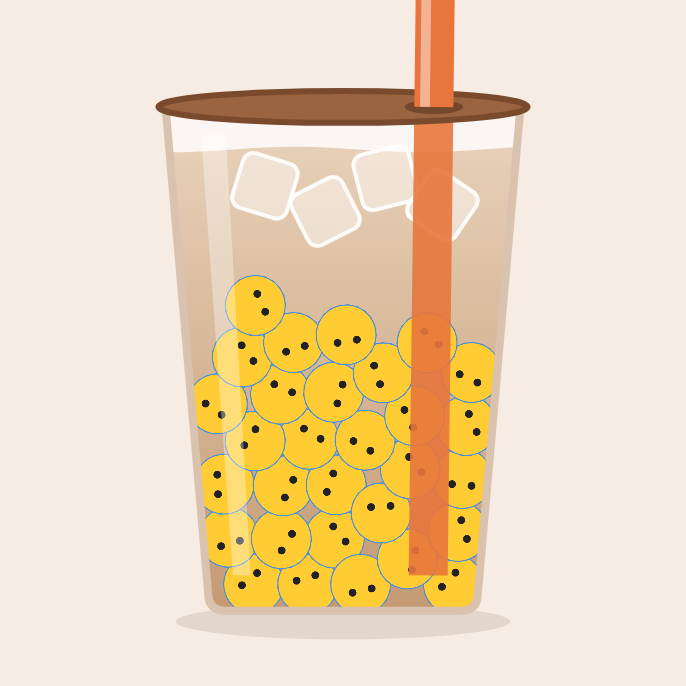
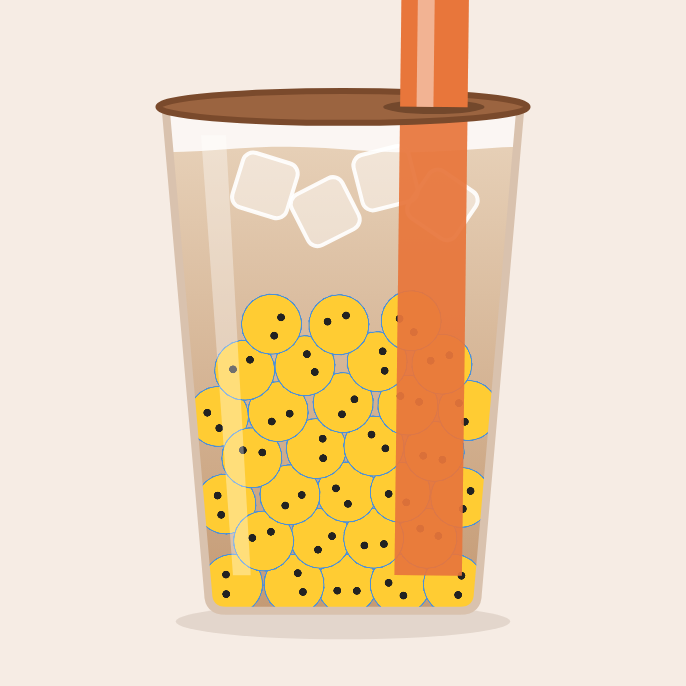
Tapioca maker: full-size pearls with physics inside a wider straw
Claude-Session: https://claude.ai/code/session_019WGMtRLvMa7SP7LbuzZCPG

Changed region(s): [[0.2755, 0.0, 0.7347, 0.8878]]

diff --git a/games/tapioca-maker/index.html b/games/tapioca-maker/index.html
@@ -275,6 +275,38 @@
     ];
   };
   const SUCK_R = 0.55, SUCK_F = 22;
+  // pearls inside the straw: 1D along the tube (d = distance from the tip, upward)
+  function stepStraw(dt, ax, ay) {
+    if (!sucked.length) return;
+    const SG = strawGeom(), G = 4.2;
+    // gravity and shake projected on the tube axis; suction pulls up while held
+    const along = (-ax) * SG.ux + (G - ay) * SG.uy;
+    for (const q of sucked) {
+      q.v += (along + (strawDrag ? 9 : 0)) * dt;
+      q.v *= Math.pow(0.4, dt);          // drag from the drink in the tube
+      q.d += q.v * dt; q.a += q.v * dt / R * 0.5;
+    }
+    // pearls can't pass each other in the tube
+    sucked.sort((a, b) => a.d - b.d);
+    for (let it = 0; it < 3; it++) {
+      for (let i = 0; i + 1 < sucked.length; i++) {
+        const a = sucked[i], b = sucked[i + 1], gap = b.d - a.d - R * 2;
+        if (gap < 0) {
+          a.d += gap / 2; b.d -= gap / 2;
+          if (a.v > b.v) { const m = (a.v + b.v) / 2; a.v = m; b.v = m; }
+        }
+      }
+    }
+    let changed = false;
+    for (const q of sucked) {
+      if (q.d < -R * 0.5) {
+        // slid out of the tip: back into the cup
+        pearls.push({ x: straw.tx, y: straw.ty + R * 0.5, vx: SG.ux * q.v, vy: SG.uy * q.v, a: q.a, va: 0, landed: true });
+        q.gone = true; changed = true;
+      } else if (q.d > STRAW_LEN + R) { q.gone = true; changed = true; }
+    }
+    if (changed) { sucked = sucked.filter(q => !q.gone); updateCount(); }
+  }
   function step(dt, ax, ay) {
     const sucking = strawDrag && liquid > 0.3;
     const G = 4.2, ws = walls();
@@ -391,6 +423,9 @@
     g.beginPath(); g.moveTo(SG.tx, SG.ty); g.lineTo(SG.hx, 0); g.stroke();
     g.globalAlpha = 1;
     drawSucked(g, opt, 1);
+    g.strokeStyle = opt.straw; g.globalAlpha = 0.3;
+    g.beginPath(); g.moveTo(SG.tx, SG.ty); g.lineTo(SG.hx, 0); g.stroke();
+    g.globalAlpha = 1;
     g.restore();
     // cup outline + shine (under the lid so the lid stays clean)
     cupPath(g); g.strokeStyle = '#d9c2ae'; g.lineWidth = 4 * lw; g.stroke();
@@ -410,13 +445,16 @@
     g.beginPath(); g.moveTo(SG.hx, 0); g.lineTo(SG.ex, SG.ey); g.stroke();
     // pearls travelling up the straw
     drawSucked(g, opt, 0);
+    g.strokeStyle = opt.straw; g.lineWidth = SW; g.globalAlpha = 0.3;
+    g.beginPath(); g.moveTo(SG.hx, 0); g.lineTo(SG.ex, SG.ey); g.stroke();
+    g.globalAlpha = 1;
     g.strokeStyle = 'rgba(255,255,255,.45)'; g.lineWidth = SW * 0.25;
     g.beginPath(); g.moveTo(SG.hx - 0.025, 0); g.lineTo(SG.ex - 0.025, SG.ey); g.stroke();
     g.restore();
   }
   // straw: a rigid tube from its tip (inside the cup) through a hole in the film
-  const SW = 0.11, STRAW_LEN = 1.66, HOLE_Y = 0;
-  let straw = { tx: 0.24, ty: CUP.h - 0.1 }, sucked = [], suckT = 0;
+  const SW = 0.19, STRAW_LEN = 1.66, HOLE_Y = 0;
+  let straw = { tx: 0.24, ty: CUP.h - 0.1 }, sucked = [];
   function strawGeom() {
     // hole slides with the tip so the straw keeps a natural slant
     const hx = Math.max(-0.36, Math.min(0.36, straw.tx * 0.4 + 0.16));
@@ -426,10 +464,10 @@
   // part 1 = inside the cup (y > 0), part 0 = above the film
   function drawSucked(g, opt, part) {
     if (!opt.sprite || !opt.sucked) return;
-    const SG = strawGeom(), sp = opt.sprite, k = SW * 0.95 / Math.max(sp.width, sp.height);
+    const SG = strawGeom(), sp = opt.sprite, k = (R * 2.3) / Math.max(sp.width, sp.height);  // same size as in the cup
     for (const q of opt.sucked) {
       const x = SG.tx + SG.ux * q.d, y = SG.ty + SG.uy * q.d;
-      if ((y > 0) !== (part === 1) || q.d > STRAW_LEN - 0.03) continue;
+      if ((y > 0) !== (part === 1)) continue;
       g.save(); g.translate(x, y); g.rotate(q.a);
       g.drawImage(sp, -sp.width * k / 2, -sp.height * k / 2, sp.width * k, sp.height * k);
       g.restore();
@@ -493,25 +531,16 @@
     const dt = Math.min(0.033, (now - lastT) / 1000); lastT = now; time += dt;
     if (mode === 'drink') {
       // holding the straw sucks up a pearl touching its tip
-      suckT -= dt;
-      // a pearl pulled right onto the tip enters the straw (one at a time: the straw is narrow)
-      if (strawDrag && suckT <= 0 && liquid > 0.3) {
+      // a pearl pulled right onto the tip enters the straw when there is room at the bottom
+      if (strawDrag && liquid > 0.3 && !sucked.some(q => q.d < R * 2.1)) {
         const SG = strawGeom();
         const i = pearls.findIndex(p => Math.hypot(p.x - straw.tx, p.y - straw.ty) < R * 0.9);
         if (i >= 0) {
           const p = pearls[i];
-          sucked.push({ d: 0, v: Math.max(0.6, p.vx * SG.ux + p.vy * SG.uy), a: p.a });
-          pearls.splice(i, 1); updateCount(); slurp(); suckT = 0.18;
+          sucked.push({ d: 0, v: Math.max(0.3, p.vx * SG.ux + p.vy * SG.uy), a: p.a });
+          pearls.splice(i, 1); updateCount(); slurp();
         }
       }
-      // pearls in the straw accelerate while sucking, slide back down when released
-      for (const q of sucked) {
-        q.v += (strawDrag ? 7 : -5) * dt; q.v = Math.max(-2, Math.min(3, q.v));
-        q.d += q.v * dt; q.a += q.v * dt * 4;
-      }
-      for (const q of sucked) if (q.d < 0) { pearls.push({ x: straw.tx, y: straw.ty + R, vx: 0, vy: 0.5, a: q.a, va: 0, landed: true }); q.gone = true; }
-      if (sucked.some(q => q.gone)) updateCount();
-      sucked = sucked.filter(q => !q.gone && q.d < STRAW_LEN);
       if (spawnLeft > 0) { spawnT -= dt; if (spawnT <= 0) { addPearl(); spawnLeft--; spawnT = 0.07; } }
       if (spawnLeft === 0 && liquid < 1) liquid = Math.min(1, liquid + dt * 0.7);
       if (!dragging) { shakeV += (-shakeX * 120 - shakeV * 10) * dt; shakeX += shakeV * dt; }
@@ -522,7 +551,10 @@
       const sub = 6;
       const damp = liquid > 0.3 ? 0.6 : 1;
       mAx *= Math.pow(0.02, dt); mAy *= Math.pow(0.02, dt);  // fade if motion events stop
-      for (let i = 0; i < sub; i++) step(dt / sub, (axS + mAx) * damp, mAy * damp);
+      for (let i = 0; i < sub; i++) {
+        step(dt / sub, (axS + mAx) * damp, mAy * damp);
+        stepStraw(dt / sub, (axS + mAx) * damp, mAy * damp);
+      }
       render();
     }
     requestAnimationFrame(loop);
